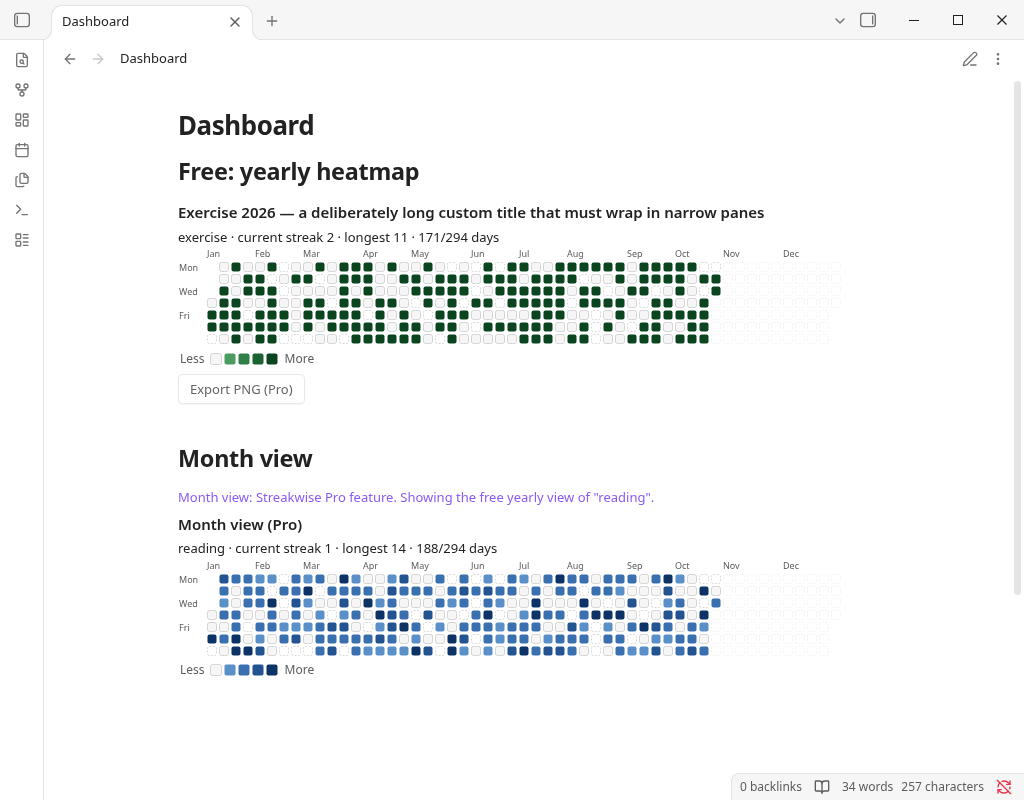
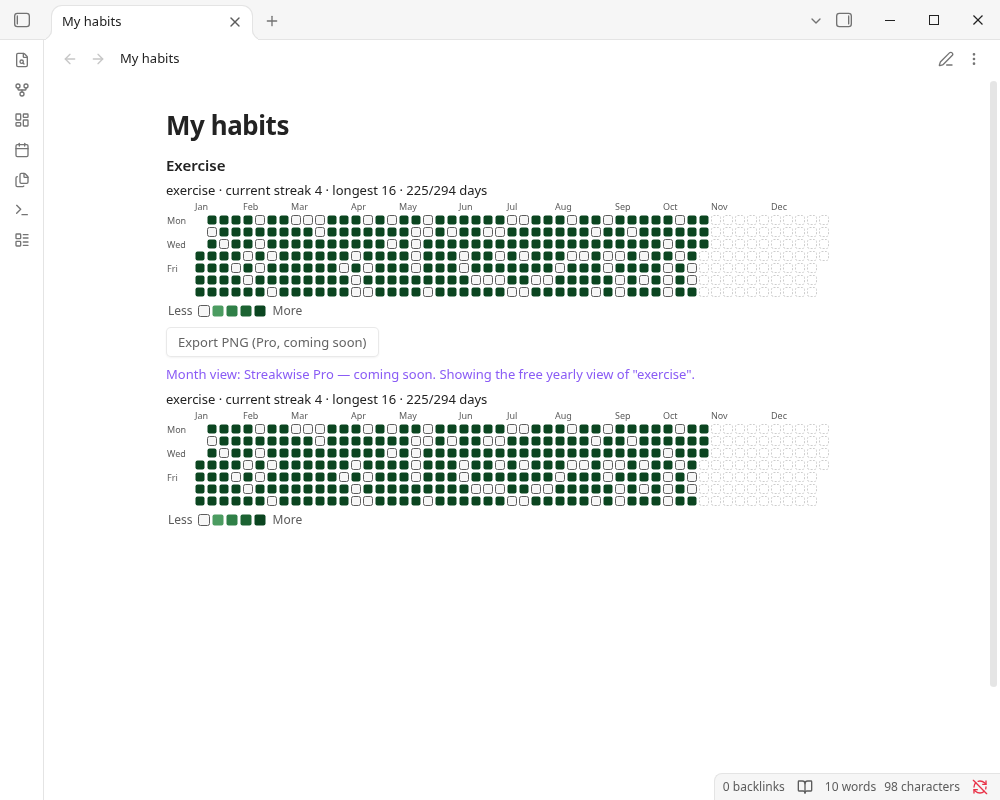
v0.1.0: FREE_BUILD strips license/network code (S-20), retake shots 10/26 (S-19), dark-mode wording (S-21)

diff --git a/src/main.ts b/src/main.ts
@@ -3,6 +3,7 @@ import { DEFAULT_SETTINGS, StreakwiseSettingTab, StreakwiseSettings } from './se
 import { LicenseManager, DEFAULT_LICENSE_CONFIG } from './license/licenseManager';
 import { obsidianHttpPost } from './license/obsidianHttp';
 import { KeyStore, selectKeyStore } from './license/keyStore';
+import { FREE_LICENSE, FREE_KEY_STORE } from './license/free';
 import { HeatmapBlock } from './obsidian/heatmapBlock';
 import { DailyNoteIndex } from './obsidian/dataSource';
 
@@ -28,7 +29,8 @@ export default class StreakwisePlugin extends Plugin {
 		this.registerEvent(this.app.vault.on('delete', notesChanged));
 		this.registerEvent(this.app.vault.on('rename', notesChanged));
 
-		this.license = new LicenseManager(
+		// FREE_BUILD (v0.1.x): esbuild drops the license/HTTP code entirely; Pro never unlocks.
+		this.license = FREE_BUILD ? FREE_LICENSE : new LicenseManager(
 			this.settings.license,
 			DEFAULT_LICENSE_CONFIG,
 			obsidianHttpPost,
@@ -57,7 +59,7 @@ export default class StreakwisePlugin extends Plugin {
 		this.addSettingTab(new StreakwiseSettingTab(this.app, this));
 
 		// Background license re-check only when a key exists; never blocks startup.
-		this.app.workspace.onLayoutReady(() => { void this.license.refreshIfDue(); });
+		if (!FREE_BUILD) this.app.workspace.onLayoutReady(() => { void this.license.refreshIfDue(); });
 	}
 
 	/** Re-render visible blocks, e.g. after settings change (the folder/format may differ). */
@@ -81,7 +83,7 @@ export default class StreakwisePlugin extends Plugin {
 		this.settings = { ...DEFAULT_SETTINGS, ...data, license: { ...DEFAULT_SETTINGS.license, ...data?.license } };
 
 		// Keychain on Obsidian 1.11.4+, data.json on older versions.
-		this.keyStore = selectKeyStore(this.app);
+		this.keyStore = FREE_BUILD ? FREE_KEY_STORE : selectKeyStore(this.app);
 		const legacyKey = this.settings.license.key;
 		this.settings.license.key = this.keyStore.load(legacyKey);
 		if (this.keyStore.kind === 'keychain' && legacyKey) {

diff --git a/src/license/free.ts b/src/license/free.ts
@@ -1,0 +1,21 @@
+import type { LicenseManager } from './licenseManager';
+import type { KeyStore } from './keyStore';
+import { EMPTY_LICENSE } from './types';
+
+/** Stand-in used by the free-only build: no network code, Pro never unlocks. */
+export const FREE_LICENSE = {
+	state: EMPTY_LICENSE,
+	isPro: () => false,
+	isConfigured: () => false,
+	graceDaysLeft: () => 0,
+	refreshIfDue: async () => EMPTY_LICENSE,
+	activate: async () => EMPTY_LICENSE,
+	clear: async () => {},
+} as unknown as LicenseManager;
+
+export const FREE_KEY_STORE: KeyStore = {
+	kind: 'data.json',
+	load: () => '',
+	save: () => {},
+	keyForDataJson: () => '',
+};

diff --git a/src/license/licenseManager.ts b/src/license/licenseManager.ts
@@ -7,8 +7,8 @@ export const DEFAULT_LICENSE_CONFIG: LicenseConfig = {
 	useActivations: true, // Polar benefit: 5 activations per key, keys never expire
 	portalUrl: 'https://polar.sh/REPLACE_WITH_ORG_SLUG/portal',
 	apiBase: 'https://api.polar.sh',
-	gracePeriodMs: 7 * DAY,
-	recheckIntervalMs: 1 * DAY,
+	gracePeriodMs: 604_800_000, // 7 days (literal so the free build can tree-shake this object)
+	recheckIntervalMs: 86_400_000, // 1 day
 };
 
 const UUID_RE = /^[0-9a-f]{8}-[0-9a-f]{4}-[0-9a-f]{4}-[0-9a-f]{4}-[0-9a-f]{12}$/i;

diff --git a/src/settings.ts b/src/settings.ts
@@ -95,7 +95,7 @@ export class StreakwiseSettingTab extends PluginSettingTab {
 
 	private displayLicense(containerEl: HTMLElement) {
 		const lic = this.plugin.license;
-		if (!lic.isConfigured()) {
+		if (FREE_BUILD || !lic.isConfigured()) {
 			// Free-only build: no key field, no purchase link, no network.
 			new Setting(containerEl).setName('Pro').setHeading();
 			new Setting(containerEl)

diff --git a/src/globals.d.ts b/src/globals.d.ts
@@ -1,0 +1,2 @@
+/** Set by esbuild define: true for the free-only v0.1.x build. */
+declare const FREE_BUILD: boolean;

diff --git a/README.md b/README.md
@@ -10,7 +10,7 @@ For anyone who tracks habits in daily notes and wants a visual check without add
 
 **Free (fully offline, no account, no network):**
 - Yearly heatmap of one habit, with current streak, longest streak and days done.
-- Light and dark theme support. 4 colour palettes (green, blue, purple, orange); shades get darker as values rise, so levels can be read by lightness, not hue alone.
+- Light and dark theme support. 4 colour palettes (green, blue, purple, orange); higher values get darker in light themes and brighter in dark themes, so levels can be read by lightness, not hue alone.
 
 **Streakwise Pro (coming soon):**
 - Month, week, quarter and year-to-date views.
